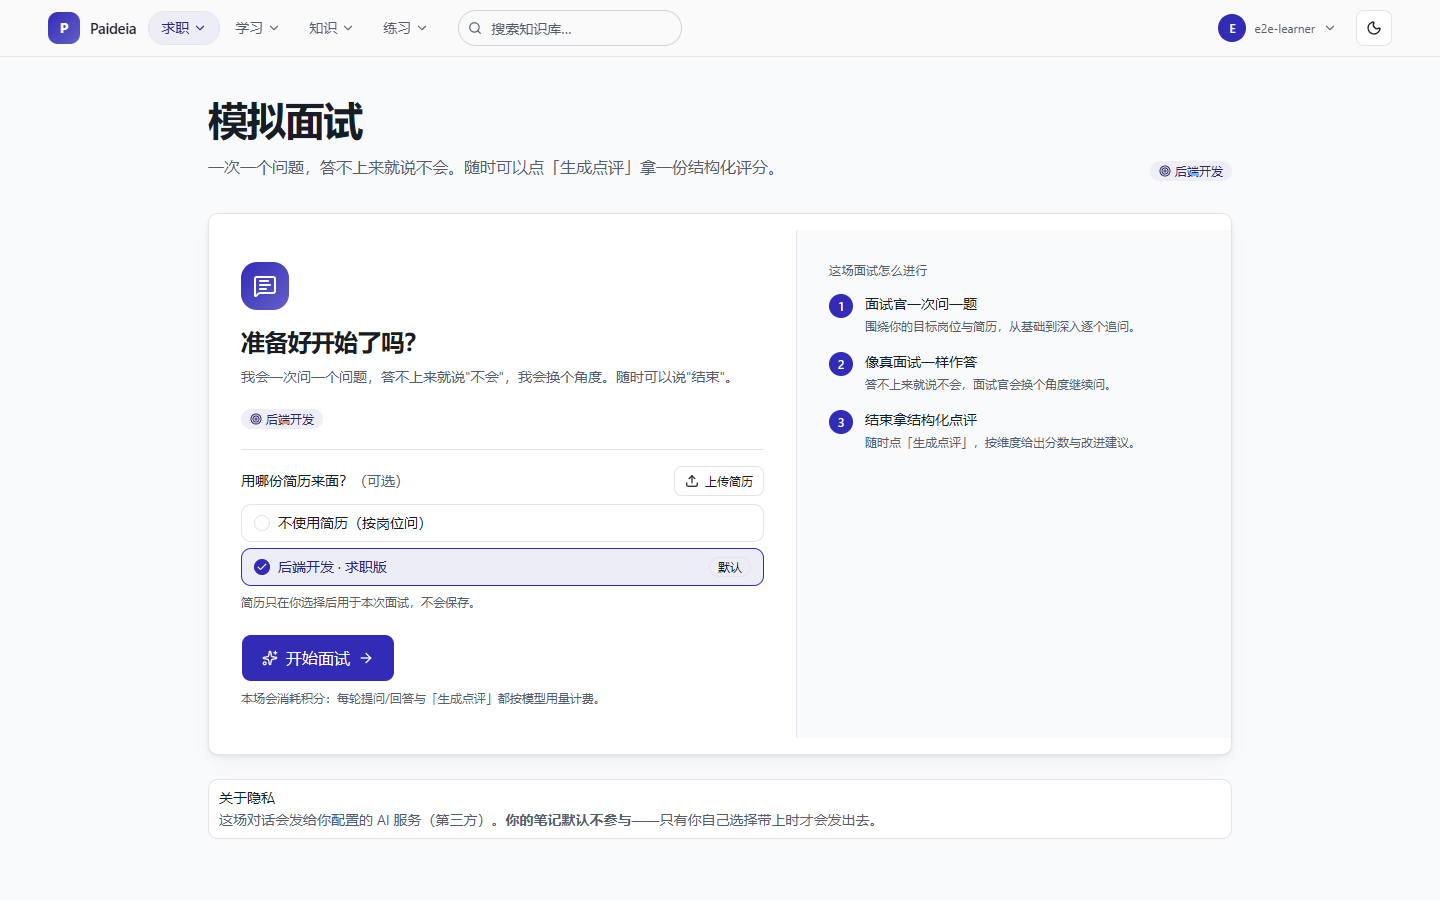
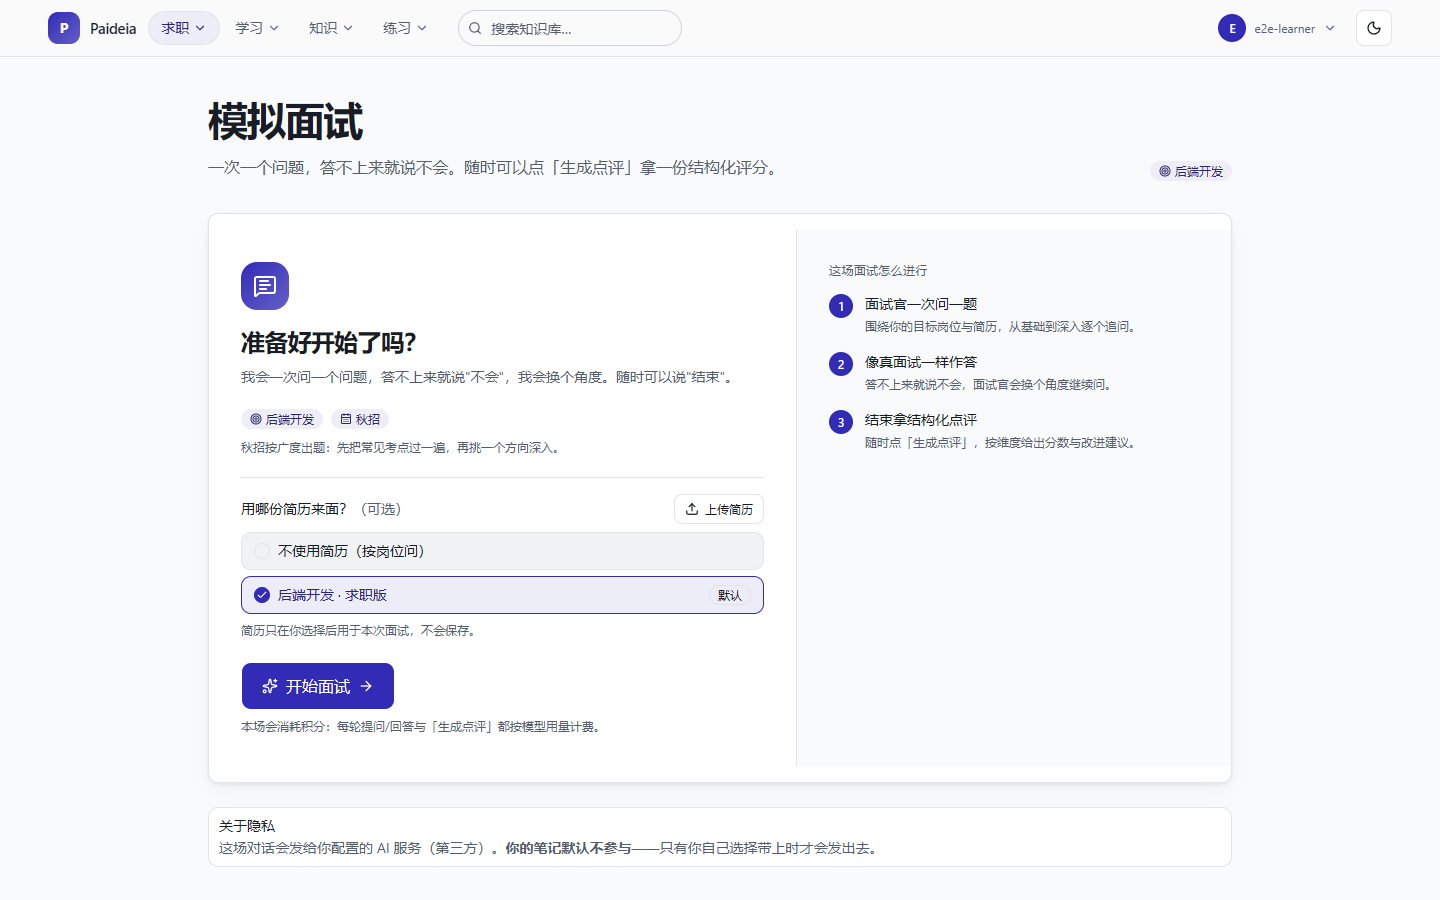
feat(interview): 求职季（秋招/春招）真正影响出题侧重
问题：画像里的 timeline 是最后一个只存不读的字段——选秋招和选春招，面试一模一样。

改动：
- 后端 InterviewPrompt 新增第 8 条：秋招先铺广度（语言/数据库/网络/操作系统各问一两题，
  确认没硬缺口再挑方向深入），春招先抠深度与匹配（围绕简历项目与技术栈追问，基础只抽查）；
  并明确写「没给就别自己假设」——猜错的侧重比不侧重更糟。版本号 interview-v2 -> v3
- 前端面试页把画像的求职季作为一行「【求职季】秋招」放进 pageContext（只进提示词、不落库），
  与已有的【本场自适应设置】【候选人简历】走同一条通道
- 开场面板加一枚季节徽标 + 一句侧重说明（testid: interview-season / interview-season-focus），
  让用户知道选了它会怎样；规则只留在后端，前端不复述细节
- 新增 InterviewPromptTest 7 条：两条硬规则仍在、两条季节规则都在、不许猜季节、版本号与
  其它提示词不同、开场白带岗位/题源，以及「【求职季】经 pageContext 进到系统提示词」

验证：InterviewPromptTest 7/7 通过（含 systemPrompt 装配那条）；app tsc 无输出；
按截图口径重拍面试页；已部署线上（222.8 秒，health 通过），实测开场面板显示秋招徽标与
「秋招按广度出题：先把常见考点过一遍，再挑一个方向深入。」

diff --git a/frontend/apps/app/src/pages/InterviewPage.tsx b/frontend/apps/app/src/pages/InterviewPage.tsx
@@ -1,4 +1,4 @@
-import { createIdentityApi, configFor, type LearnerProfile } from '@paideia/identity'
+import { createIdentityApi, configFor, TIMELINE_LABELS, type JobTimeline, type LearnerProfile } from '@paideia/identity'
 import { adaptiveContextText, computeAbility, difficultyLabel, type AssistantApi, type AdaptiveBrief, type InterviewEvaluationView } from '@paideia/assistant'
 import {
   createResumeApi,
@@ -29,6 +29,7 @@ import { Link, useBlocker } from 'react-router'
 import {
   ArrowRight,
   Bot,
+  CalendarDays,
   Check,
   ChevronDown,
   Lightbulb,
@@ -63,6 +64,17 @@ interface Line {
 type ResumeChoice = 'none' | 'upload' | number
 
 /**
+ * 面试页上给用户看的一句话：本场按哪个季节、侧重什么（2026-11-09）。
+ *
+ * <p>**这里只是界面文案**——真正约束模型的是 `InterviewPrompt` 第 8 条。两处都写是因为
+ * 用户需要知道"我选了秋招，面试会怎么变"；但规则只有后端那一份，前端不跟着复述细节。
+ */
+const SEASON_FOCUS: Record<JobTimeline, string> = {
+  autumn: '秋招按广度出题：先把常见考点过一遍，再挑一个方向深入。',
+  spring: '春招按深度出题：围绕简历里的项目与技术栈追问，基础只做抽查。',
+}
+
+/**
  * 模拟面试（WORK-010 T-09 / T-11；WORK-075 视觉重做）。
  *
  * <p><b>行为由会话决定，不由页面决定</b>：会话建的时候带 `harness=interview`，之后即使从通用助手
@@ -82,6 +94,20 @@ type ResumeChoice = 'none' | 'upload' | number
 export function InterviewPage() {
   const { data: profile } = useQuery({ queryKey: ['profile'], queryFn: () => identity.profile(), retry: false })
   const config = configFor(profile?.identity)
+
+  /**
+   * 本场求职季（2026-11-09）。
+   *
+   * <p>画像里的 `timeline` 原来**只存不读**：选了"秋招"和没选，面试一模一样。
+   * 现在它作为 `【求职季】秋招` 这一行进 pageContext，只进提示词、不落库；
+   * 面试官按季节换侧重（秋招铺广度、春招抠深度），规则写在 `InterviewPrompt` 的第 8 条。
+   *
+   * <p>没填就不传——**猜错的侧重比不侧重更糟**，prompt 里也明写了"没给就别假设"。
+   */
+  const season =
+    profile?.timeline === null || profile?.timeline === undefined
+      ? null
+      : { label: TIMELINE_LABELS[profile.timeline], focus: SEASON_FOCUS[profile.timeline] }
 
   /**
    * 历次评估（`GET /ai/interviews/evaluations`）。
@@ -265,8 +291,12 @@ export function InterviewPage() {
       setPreparing(false)
     }
 
-    // 自适应设置（WORK-078）+ 简历（WORK-077）一起作为 pageContext：只进提示词、不落库。
+    // 自适应设置（WORK-078）+ 求职季（2026-11-09）+ 简历（WORK-077）一起作为 pageContext：
+    // 只进提示词、不落库。
     const parts: string[] = []
+    if (season !== null) {
+      parts.push(`【求职季】${season.label}`)
+    }
     if (adaptive !== null) {
       parts.push(adaptiveContextText(adaptive, history.data?.[0]?.evaluation.improvements ?? []))
     }
@@ -336,6 +366,8 @@ export function InterviewPage() {
             <StartPanel
               intro={config.interviewIntro}
               role={role}
+              season={season?.label ?? null}
+              seasonFocus={season?.focus ?? null}
               busy={busy}
               preparing={preparing}
               adaptive={adaptive}
@@ -614,6 +646,8 @@ function Bubble({ line, thinking }: { line: Line; thinking: boolean }) {
 function StartPanel({
   intro,
   role,
+  season,
+  seasonFocus,
   busy,
   preparing,
   adaptive,
@@ -628,6 +662,10 @@ function StartPanel({
 }: {
   intro: string
   role: string | undefined
+  /** 本场求职季的显示名（秋招 / 春招）；没填就是 null，不显示这一枚。 */
+  season: string | null
+  /** 本场侧重的一句话说明。规则以后端提示词为准，这里只是让用户知道选了它会怎样。 */
+  seasonFocus: string | null
   busy: boolean
   preparing: boolean
   adaptive: AdaptiveBrief | null
@@ -655,7 +693,19 @@ function StartPanel({
               <Target className="size-3.5" />
               {role === undefined || role === '' ? '未填写目标岗位' : role}
             </Badge>
+            {season === null ? null : (
+              <Badge variant="secondary" className="gap-1" data-testid="interview-season">
+                <CalendarDays className="size-3.5" />
+                {season}
+              </Badge>
+            )}
           </div>
+
+          {seasonFocus === null ? null : (
+            <p className="text-muted-foreground mt-2 text-xs leading-5" data-testid="interview-season-focus">
+              {seasonFocus}
+            </p>
+          )}
 
           {adaptive === null ? null : (
             <div className="border-border bg-muted/40 mt-3 rounded-lg border px-3 py-2 text-xs leading-5">

diff --git a/backend/paideia-ai/src/test/java/io/github/xiaou61/ai/internal/conversation/InterviewPromptTest.java b/backend/paideia-ai/src/test/java/io/github/xiaou61/ai/internal/conversation/InterviewPromptTest.java
@@ -1,0 +1,83 @@
+package io.github.xiaou61.ai.internal.conversation;
+
+import static org.assertj.core.api.Assertions.assertThat;
+
+import io.github.xiaou61.ai.AssistantConversation;
+import io.github.xiaou61.ai.Harness;
+import java.util.List;
+import org.junit.jupiter.api.DisplayName;
+import org.junit.jupiter.api.Test;
+
+/**
+ * 面试官提示词的护栏（WORK-010，求职季那一节 2026-11-09）。
+ *
+ * <p>与 {@link TutorPromptTest} 同一档保证：只验**这几条还在**，不验模型是否真的照做
+ * （那要跑上游，已登记为已知缺口）。改文案可以，改掉这几条等于拆掉约束。
+ */
+class InterviewPromptTest {
+
+    @Test
+    @DisplayName("两条硬规则必须在：一次只问一个、不替他回答")
+    void hardRulesArePresent() {
+        String system = InterviewPrompt.system();
+        assertThat(system).contains("一次只问一个问题");
+        assertThat(system).contains("不替他回答");
+    }
+
+    @Test
+    @DisplayName("求职季换侧重：秋招铺广度、春招抠深度，且都写清楚了")
+    void seasonChangesFocus() {
+        String system = InterviewPrompt.system();
+        assertThat(system).contains("【求职季】");
+        assertThat(system).contains("秋招");
+        assertThat(system).contains("广度");
+        assertThat(system).contains("春招");
+        assertThat(system).contains("深度");
+    }
+
+    @Test
+    @DisplayName("没给求职季时不许模型自己猜——猜错的侧重比不侧重更糟")
+    void seasonIsNotGuessed() {
+        assertThat(InterviewPrompt.system()).contains("没给就别自己假设");
+    }
+
+    @Test
+    @DisplayName("版本号非空，且与通用助手、导师都不同（改提示词要能分辨是哪份）")
+    void versionIsSetAndDistinct() {
+        assertThat(InterviewPrompt.VERSION).isNotBlank();
+        assertThat(InterviewPrompt.VERSION).isNotEqualTo(ConversationPrompt.VERSION);
+        assertThat(InterviewPrompt.VERSION).isNotEqualTo(TutorPrompt.version());
+    }
+
+    @Test
+    @DisplayName("【求职季】跟着 pageContext 进了系统提示词，面试规则同时在场")
+    void seasonReachesSystemPrompt() {
+        // 这条是把"前端传参 → 服务端装配"这一段串起来验：前端只往 pageContext 里塞一行
+        // `【求职季】秋招`，这里断言它真的出现在最终发给模型的系统提示词里，且第 8 条也在。
+        AssistantConversation.Request request = new AssistantConversation.Request(
+                1L, List.of(), "开始面试。目标岗位：后端开发。", null, null, "", List.of(),
+                Harness.INTERVIEW, "【求职季】秋招", null);
+
+        String prompt = AgentScopeConversation.systemPrompt(request);
+
+        assertThat(prompt).contains("【求职季】秋招");
+        assertThat(prompt).contains("一次只问一个问题");
+        assertThat(prompt).contains("没给就别自己假设");
+    }
+
+    @Test
+    @DisplayName("开场白带岗位；没有岗位时不出现空引号")
+    void openingMentionsRole() {
+        assertThat(InterviewPrompt.opening("后端开发", null)).contains("「后端开发」");
+        assertThat(InterviewPrompt.opening(null, null)).doesNotContain("目标岗位");
+        assertThat(InterviewPrompt.opening("  ", null)).doesNotContain("目标岗位");
+    }
+
+    @Test
+    @DisplayName("开场白带上题源提示，但说清不必局限")
+    void openingMentionsEntryHint() {
+        String opening = InterviewPrompt.opening("前端", "《闭包与作用域》");
+        assertThat(opening).contains("《闭包与作用域》");
+        assertThat(opening).contains("不必局限于");
+    }
+}

diff --git a/backend/paideia-ai/src/main/java/io/github/xiaou61/ai/internal/conversation/InterviewPrompt.java b/backend/paideia-ai/src/main/java/io/github/xiaou61/ai/internal/conversation/InterviewPrompt.java
@@ -6,12 +6,14 @@ package io.github.xiaou61.ai.internal.conversation;
  * <p>与 {@link ConversationPrompt} 分开是沿用既有纪律："一个任务一个类"——混用一套会让两种约束
  * 互相打架（通用助手要求"简洁、直接给结果"，面试官恰恰不能替用户回答）。
  *
- * <p>四条刻意约束：
+ * <p>五条刻意约束：
  * <ul>
  *   <li><b>一次只问一个问题</b>：一连串问题会让用户不知道从哪个答起，也破坏"多轮追问"的形态。</li>
  *   <li><b>不替用户回答</b>：它要评估的是用户，不是展示自己。</li>
  *   <li><b>追问要基于上一轮的回答</b>：泛泛问下一题等于一份问卷，不是面试。</li>
  *   <li><b>不编造</b>：题库来自知识库已发布条目，没有就说不问这块，而不是现编一个技术细节。</li>
+ *   <li><b>按求职季换侧重</b>（2026-11-09）：秋招铺广度、春招抠深度与匹配；资料里没给【求职季】
+ *       就让模型按默认走，**不许自己假设季节**——猜错的侧重比不侧重更糟。</li>
  * </ul>
  *
  * <p>{@link #VERSION} 独立于通用助手：将来出现"同一个问题为什么问得不一样"，要能分辨是哪份提示词改过。
@@ -19,7 +21,7 @@ package io.github.xiaou61.ai.internal.conversation;
 final class InterviewPrompt {
 
     /** 独立版本号：改文案必须改它。 */
-    static final String VERSION = "interview-v2";
+    static final String VERSION = "interview-v3";
 
     private InterviewPrompt() {
     }
@@ -41,6 +43,12 @@ final class InterviewPrompt {
                 7. 如果系统另外提供了候选人的**简历**或【本场自适应设置】（本场重点、起始难度），
                    那是平台给的参考：优先围绕简历里的项目/技术栈追问；对「本场重点」的维度多问、深问；
                    按建议难度起步，并根据他回答的好坏动态加深或退基础。**别把这些资料整段念出来。**
+                8. 如果资料里给了【求职季】，按季节换侧重（**没给就别自己假设**）：
+                   【求职季】秋招 —— 先铺**广度**：语言基础、数据库、网络、操作系统这些常见考点各问一两题，
+                   确认没有硬缺口，再挑一个方向往下追；不要一上来就抠项目细节。
+                   【求职季】春招 —— 先抠**深度与匹配**：围绕简历里的项目、他写的技术栈、岗位实际要做的事追问，
+                   基础只做抽查；问得比秋招更细，允许连着两三层追同一件事。
+                   两种都仍然守第 1、2 条：一次只问一个问题，不替他回答。
                 """;
     }
 
